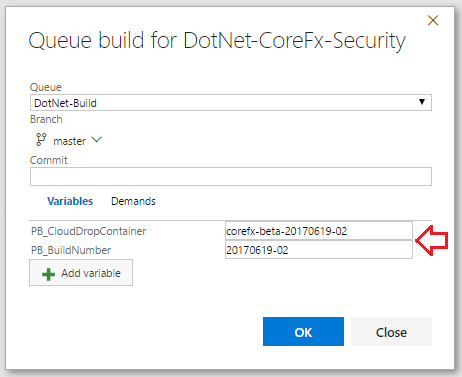
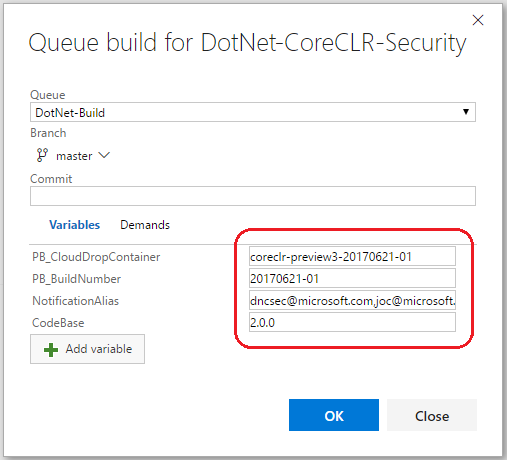
Update documentation for security build kickoff. (#989)
* Describe input variable for branch and alias.

* Fixed typos.

Changed region(s): [[0.0, 0.0, 1.0, 1.0], [0.8182, 0.8462, 0.8788, 0.9337], [0.9091, 0.2334, 0.9394, 0.2918]]

diff --git a/security-builds.md b/security-builds.md
@@ -38,23 +38,30 @@ In the current setup, a security build is triggered manually. Official Id and co
 TSA is configured to send an email report for each scan or security build to [dncsec](dncsec@microsoft.com) that include .NET Core repository owners responsible for security issues. Repository owners should focus on new issues and regressions highlighted in the report, and take necessary action to resolve those issues.
 
 ##How to kickoff a security build
-Kickoff of a security build is as simple as queuing a VSTS build definition. While queuing, values for two input variables need to be provided. These variables are as follows:
+Kickoff of a security build is as simple as queuing a VSTS build definition. While queuing, values for four input variables need to be provided. These variables are as follows:
 
  - *PB_BuildNumber* - official build Id of the repository.
  - *PB_CloudDropContainer* - name of the Azure container from where the packages published from the official build (*PB_BuildNumber*) can be downloaded.
+ - *CodeBase* - TSA codebase that corresponds to the branch. For example, `master` or `2.0.0`.
+ - *NotificationAlias* - A comma separated email Ids where the TSA report should be sent.
 
-For example, a recent build Id of CoreFx master branch is `20170619-02`. Packages produced from this build were published to Azure container named `corefx-beta-20170619-02` . To launch a security build that will scan the assemblies and source code from that official build, perform the following steps:
+For example, a recent build Id of CoreCLR `2.0.0` branch is `20170621-01`. Packages produced from this build were published to Azure container named `coreclr-preview3-20170621-01` . To launch a security build that will scan the assemblies and source code from that official build, perform the following steps:
 
- 1. Navigate to CoreFx security build [definition](https://devdiv.visualstudio.com/DefaultCollection/DevDiv/_build/index?context=allDefinitions&path=%5CDotNet%5CSecurity&definitionId=6552&_a=completed)
+ 1. Navigate to CoreCLR security build [definition](https://devdiv.visualstudio.com/DevDiv/_build/index?context=allDefinitions&path=%5CDotNet%5CSecurity&definitionId=6598&_a=completed)
  2. Click "Queue new build"
- 3. Enter the variable values for *PB_BuildNumber* and *PB_CloudDropContainer* as `20170619-02` and `corefx-beta-20170619-02` respectively. Refer to the screenshot below.
- 4. Click OK to start the build. 
+ 3. Enter the variable values:
+	  - *PB_BuildNumber* = `20170621-01`
+	  - *PB_CloudDropContainer* = `coreclr-preview3-20170621-01` 
+	  - *CodeBase* = `2.0.0`
+	  - *NotificationAlias*  = `dncsec@microsoft.com,joc@microsoft.com`
+Refer to the screenshot below.
+ 4. Click OK to start the build 
 
  ----------
 ![QueueSecurityBuild.](./assets/QueueSecurityBuild.png?raw=true)
 
 ----------
 
-As described in the earlier section, when the build finishes successfully, an email report of the security build is sent to [dncsec](dncsec@microsoft.com), and the same report can be viewed online.
+As described in the earlier section, when the build finishes successfully, an email report of the security build is sent to listed email Ids. The same report can be viewed online at TSA website. For example, report for CoreCLR  `2.0.0` will be at http://aztsa/api/Result/CodeBase/DotNet-CoreCLR-Trusted_2.0.0/Summary
 
 For any questions about security builds, please contact [dncsec](dncsec@microsoft.com).
